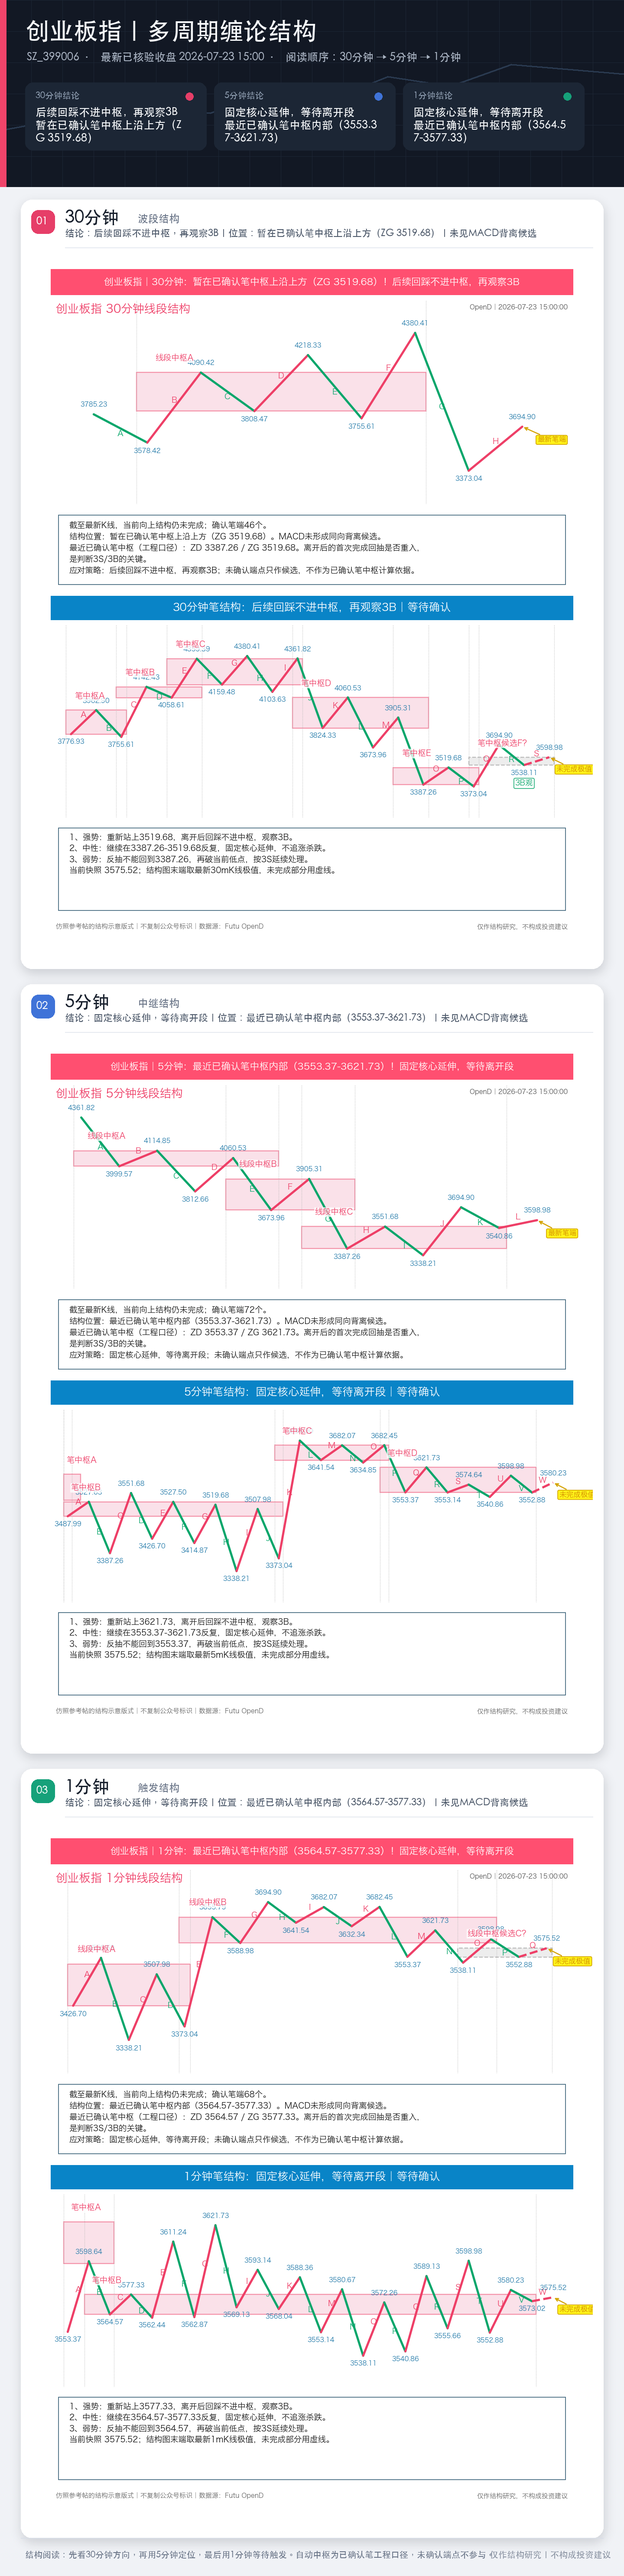
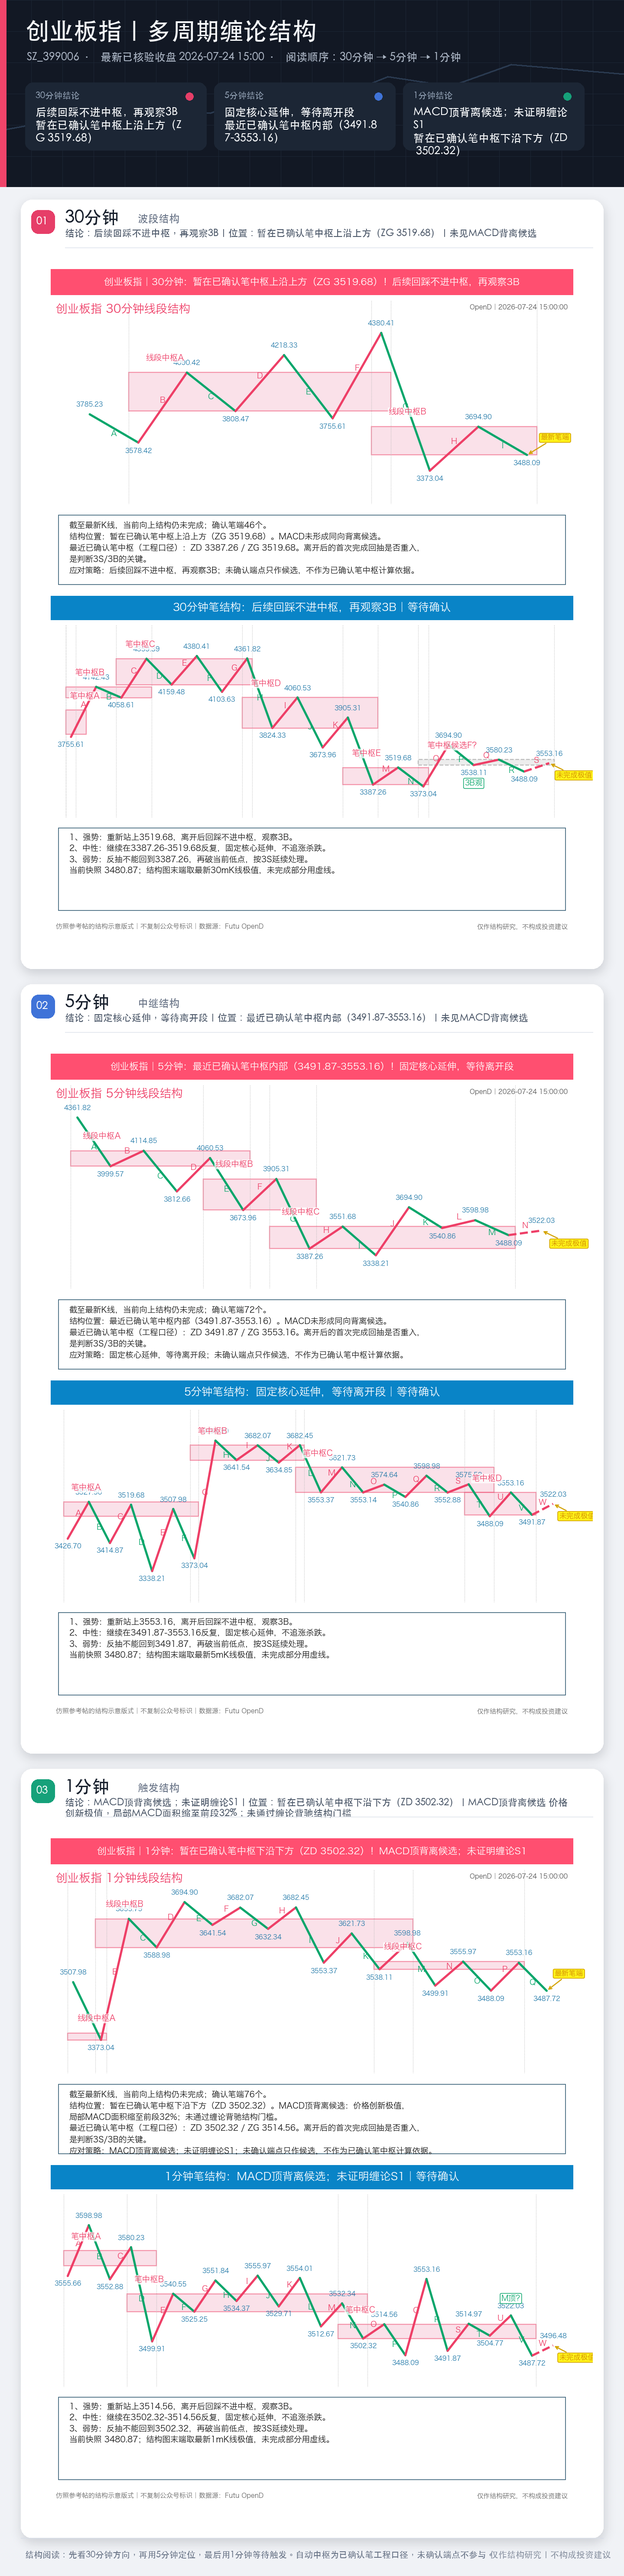
refresh chanlun close review for 2026-07-24

diff --git a/chanlun/index.html b/chanlun/index.html
@@ -200,8 +200,8 @@
     <header>
       <h1>A股三指数缠论复盘</h1>
       <div class="sub">
-        <span class="badge">交易日 2026-07-23</span>
-        <span class="badge">396/396 校验通过</span>
+        <span class="badge">交易日 2026-07-24</span>
+        <span class="badge">387/387 校验通过</span>
         <span class="badge">页面每 300 秒自动刷新</span>
       </div>
     </header>
@@ -210,33 +210,33 @@
               <div class="card-head">
                 <div>
                   <h2>上证指数</h2>
-                  <p>SH.000001 · 最新已核验收盘 2026-07-23 15:00:00</p>
+                  <p>SH.000001 · 最新已核验收盘 2026-07-24 15:00:00</p>
                 </div>
                 <div class="price-box">
                   <span>收盘</span>
-                  <strong>3876.78</strong>
+                  <strong>3814.20</strong>
                 </div>
               </div>
-              <img src="SH_000001_30m_5m_1m_combined_chanlun.png?v=1784792322" alt="上证指数 合并图">
+              <img src="SH_000001_30m_5m_1m_combined_chanlun.png?v=1784881023" alt="上证指数 合并图">
               <ul class="signals">
                 <li><b>30m</b><span>后续回踩不进中枢，再观察3B</span><em>暂在已确认笔中枢上沿上方（ZG 3828.34）</em></li>
-<li><b>5m</b><span>MACD顶背离候选；未证明缠论S1</span><em>最近已确认笔中枢内部（3861.26-3882.21）</em></li>
-<li><b>1m</b><span>后续回踩不进中枢，再观察3B</span><em>暂在已确认笔中枢上沿上方（ZG 3869.85）</em></li>
+<li><b>5m</b><span>MACD底背离候选；未证明缠论B1</span><em>暂在已确认笔中枢下沿下方（ZD 3822.22）</em></li>
+<li><b>1m</b><span>后续反抽不回中枢，再警惕3S</span><em>暂在已确认笔中枢下沿下方（ZD 3822.84）</em></li>
               </ul>
               <div class="analysis">
                 <h3>当前点位分析</h3>
                 <ul>
                   <li>30分钟当前是“后续回踩不进中枢，再观察3B”，位置为“暂在已确认笔中枢上沿上方（ZG 3828.34）”；这里的含义是暂时站在中枢上沿外侧，不等于已经确认3B。</li>
-                  <li>5分钟当前信号为“MACD顶背离候选；未证明缠论S1”，位置为“最近已确认笔中枢内部（3861.26-3882.21）”；MACD顶背离候选：价格创新极值，局部MACD面积缩至前段29%；未通过缠论背驰结构门槛。</li>
-                  <li>1分钟当前是“后续回踩不进中枢，再观察3B”，位置为“暂在已确认笔中枢上沿上方（ZG 3869.85）”；这里的含义是暂时站在中枢上沿外侧，不等于已经确认3B。</li>
+                  <li>5分钟当前是“MACD底背离候选；未证明缠论B1”，位置为“暂在已确认笔中枢下沿下方（ZD 3822.22）”；MACD底背离候选：价格创新极值，局部MACD面积缩至前段33%；未通过缠论背驰结构门槛，这里只是指标候选，不能直接当作B1。</li>
+                  <li>1分钟当前是“后续反抽不回中枢，再警惕3S”，位置为“暂在已确认笔中枢下沿下方（ZD 3822.84）”；MACD未见同向背离候选。</li>
                 </ul>
               </div>
               <div class="outlook">
-                <h3>下一交易日预案（2026-07-24，节假日顺延）</h3>
+                <h3>下一交易日预案（2026-07-27，节假日顺延）</h3>
                 <ul>
-                  <li>强势修复：先看 1 分钟能否继续站在 3869.85 上方，若后续回踩不进中枢，再上看 5 分钟修复位 3861.26，再强才谈 3882.21 以上的延续。</li>
-                  <li>中性震荡：若主要在 3861.26-3869.85 之间反复，就继续按修复中的箱体震荡看；未重新回到 3861.26 上方前，不把它当反转。</li>
-                  <li>弱势破位：若重新跌回 3869.85 下方且再破今日低点 3851.71，则本轮回抽视为失败，继续等新的 1B/B1；30 分钟未回到 3745.17 附近前，不按主结构修复处理。</li>
+                  <li>强势修复：先看 1 分钟能否继续站在 3829.73 上方，若后续回踩不进中枢，再上看 5 分钟修复位 3822.22，再强才谈 3853.80 以上的延续。</li>
+                  <li>中性震荡：若主要在 3822.22-3829.73 之间反复，就继续按修复中的箱体震荡看；未重新回到 3822.22 上方前，不把它当反转。</li>
+                  <li>弱势破位：若重新跌回 3829.73 下方且再破今日低点 3808.64，则本轮回抽视为失败，继续等新的 1B/B1；30 分钟未回到 3745.17 附近前，不按主结构修复处理。</li>
                 </ul>
               </div>
             </section>
@@ -244,33 +244,33 @@
               <div class="card-head">
                 <div>
                   <h2>创业板指</h2>
-                  <p>SZ.399006 · 最新已核验收盘 2026-07-23 15:00:00</p>
+                  <p>SZ.399006 · 最新已核验收盘 2026-07-24 15:00:00</p>
                 </div>
                 <div class="price-box">
                   <span>收盘</span>
-                  <strong>3575.52</strong>
+                  <strong>3480.87</strong>
                 </div>
               </div>
-              <img src="SZ_399006_30m_5m_1m_combined_chanlun.png?v=1784792321" alt="创业板指 合并图">
+              <img src="SZ_399006_30m_5m_1m_combined_chanlun.png?v=1784881023" alt="创业板指 合并图">
               <ul class="signals">
                 <li><b>30m</b><span>后续回踩不进中枢，再观察3B</span><em>暂在已确认笔中枢上沿上方（ZG 3519.68）</em></li>
-<li><b>5m</b><span>固定核心延伸，等待离开段</span><em>最近已确认笔中枢内部（3553.37-3621.73）</em></li>
-<li><b>1m</b><span>固定核心延伸，等待离开段</span><em>最近已确认笔中枢内部（3564.57-3577.33）</em></li>
+<li><b>5m</b><span>固定核心延伸，等待离开段</span><em>最近已确认笔中枢内部（3491.87-3553.16）</em></li>
+<li><b>1m</b><span>MACD顶背离候选；未证明缠论S1</span><em>暂在已确认笔中枢下沿下方（ZD 3502.32）</em></li>
               </ul>
               <div class="analysis">
                 <h3>当前点位分析</h3>
                 <ul>
                   <li>30分钟当前是“后续回踩不进中枢，再观察3B”，位置为“暂在已确认笔中枢上沿上方（ZG 3519.68）”；这里的含义是暂时站在中枢上沿外侧，不等于已经确认3B。</li>
-                  <li>5分钟当前信号为“固定核心延伸，等待离开段”，位置为“最近已确认笔中枢内部（3553.37-3621.73）”；MACD未见同向背离候选。</li>
-                  <li>1分钟当前信号为“固定核心延伸，等待离开段”，位置为“最近已确认笔中枢内部（3564.57-3577.33）”；MACD未见同向背离候选。</li>
+                  <li>5分钟当前信号为“固定核心延伸，等待离开段”，位置为“最近已确认笔中枢内部（3491.87-3553.16）”；MACD未见同向背离候选。</li>
+                  <li>1分钟当前信号为“MACD顶背离候选；未证明缠论S1”，位置为“暂在已确认笔中枢下沿下方（ZD 3502.32）”；MACD顶背离候选：价格创新极值，局部MACD面积缩至前段32%；未通过缠论背驰结构门槛。</li>
                 </ul>
               </div>
               <div class="outlook">
-                <h3>下一交易日预案（2026-07-24，节假日顺延）</h3>
+                <h3>下一交易日预案（2026-07-27，节假日顺延）</h3>
                 <ul>
-                  <li>强势修复：先看 1 分钟能否继续站在 3577.33 上方，若后续回踩不进中枢，再上看 5 分钟修复位 3553.37，再强才谈 3621.73 以上的延续。</li>
-                  <li>中性震荡：若主要在 3553.37-3577.33 之间反复，就继续按修复中的箱体震荡看；未重新回到 3553.37 上方前，不把它当反转。</li>
-                  <li>弱势破位：若重新跌回 3577.33 下方且再破今日低点 3538.11，则本轮回抽视为失败，继续等新的 1B/B1；30 分钟未回到 3387.26 附近前，不按主结构修复处理。</li>
+                  <li>强势修复：先看 1 分钟能否继续站在 3514.56 上方，若后续回踩不进中枢，再上看 5 分钟修复位 3491.87，再强才谈 3553.16 以上的延续。</li>
+                  <li>中性震荡：若主要在 3491.87-3514.56 之间反复，就继续按修复中的箱体震荡看；未重新回到 3491.87 上方前，不把它当反转。</li>
+                  <li>弱势破位：若重新跌回 3514.56 下方且再破今日低点 3480.87，则本轮回抽视为失败，继续等新的 1B/B1；30 分钟未回到 3387.26 附近前，不按主结构修复处理。</li>
                 </ul>
               </div>
             </section>
@@ -278,33 +278,33 @@
               <div class="card-head">
                 <div>
                   <h2>科创50</h2>
-                  <p>SH.000688 · 最新已核验收盘 2026-07-23 15:00:00</p>
+                  <p>SH.000688 · 最新已核验收盘 2026-07-24 15:00:00</p>
                 </div>
                 <div class="price-box">
                   <span>收盘</span>
-                  <strong>1789.69</strong>
+                  <strong>1787.20</strong>
                 </div>
               </div>
-              <img src="SH_000688_30m_5m_1m_combined_chanlun.png?v=1784792321" alt="科创50 合并图">
+              <img src="SH_000688_30m_5m_1m_combined_chanlun.png?v=1784881023" alt="科创50 合并图">
               <ul class="signals">
-                <li><b>30m</b><span>后续反抽不回中枢，再警惕3S</span><em>暂在已确认笔中枢下沿下方（ZD 1886.74）</em></li>
+                <li><b>30m</b><span>固定核心延伸，等待离开段</span><em>最近已确认笔中枢内部（1770.53-1831.28）</em></li>
 <li><b>5m</b><span>固定核心延伸，等待离开段</span><em>最近已确认笔中枢内部（1782.82-1799.24）</em></li>
-<li><b>1m</b><span>固定核心延伸，等待离开段</span><em>最近已确认笔中枢内部（1777.40-1796.43）</em></li>
+<li><b>1m</b><span>后续反抽不回中枢，再警惕3S</span><em>暂在已确认笔中枢下沿下方（ZD 1807.59）</em></li>
               </ul>
               <div class="analysis">
                 <h3>当前点位分析</h3>
                 <ul>
-                  <li>30分钟当前是“后续反抽不回中枢，再警惕3S”，位置为“暂在已确认笔中枢下沿下方（ZD 1886.74）”；MACD未见同向背离候选。</li>
+                  <li>30分钟当前信号为“固定核心延伸，等待离开段”，位置为“最近已确认笔中枢内部（1770.53-1831.28）”；MACD未见同向背离候选。</li>
                   <li>5分钟当前信号为“固定核心延伸，等待离开段”，位置为“最近已确认笔中枢内部（1782.82-1799.24）”；MACD未见同向背离候选。</li>
-                  <li>1分钟当前信号为“固定核心延伸，等待离开段”，位置为“最近已确认笔中枢内部（1777.40-1796.43）”；MACD未见同向背离候选。</li>
+                  <li>1分钟当前是“后续反抽不回中枢，再警惕3S”，位置为“暂在已确认笔中枢下沿下方（ZD 1807.59）”；MACD未见同向背离候选。</li>
                 </ul>
               </div>
               <div class="outlook">
-                <h3>下一交易日预案（2026-07-24，节假日顺延）</h3>
+                <h3>下一交易日预案（2026-07-27，节假日顺延）</h3>
                 <ul>
-                  <li>强势修复：先看 1 分钟能否继续站在 1796.43 上方，若后续回踩不进中枢，再上看 5 分钟修复位 1782.82，再强才谈 1799.24 以上的延续。</li>
-                  <li>中性震荡：若主要在 1782.82-1796.43 之间反复，就继续按修复中的箱体震荡看；未重新回到 1782.82 上方前，不把它当反转。</li>
-                  <li>弱势破位：若重新跌回 1796.43 下方且再破今日低点 1770.53，则本轮回抽视为失败，继续等新的 1B/B1；30 分钟未回到 1886.74 附近前，不按主结构修复处理。</li>
+                  <li>强势修复：先看 1 分钟能否继续站在 1808.61 上方，若后续回踩不进中枢，再上看 5 分钟修复位 1782.82，再强才谈 1799.24 以上的延续。</li>
+                  <li>中性震荡：若主要在 1782.82-1808.61 之间反复，就继续按修复中的箱体震荡看；未重新回到 1782.82 上方前，不把它当反转。</li>
+                  <li>弱势破位：若重新跌回 1808.61 下方且再破今日低点 1748.80，则本轮回抽视为失败，继续等新的 1B/B1；30 分钟未回到 1770.53 附近前，不按主结构修复处理。</li>
                 </ul>
               </div>
             </section>
